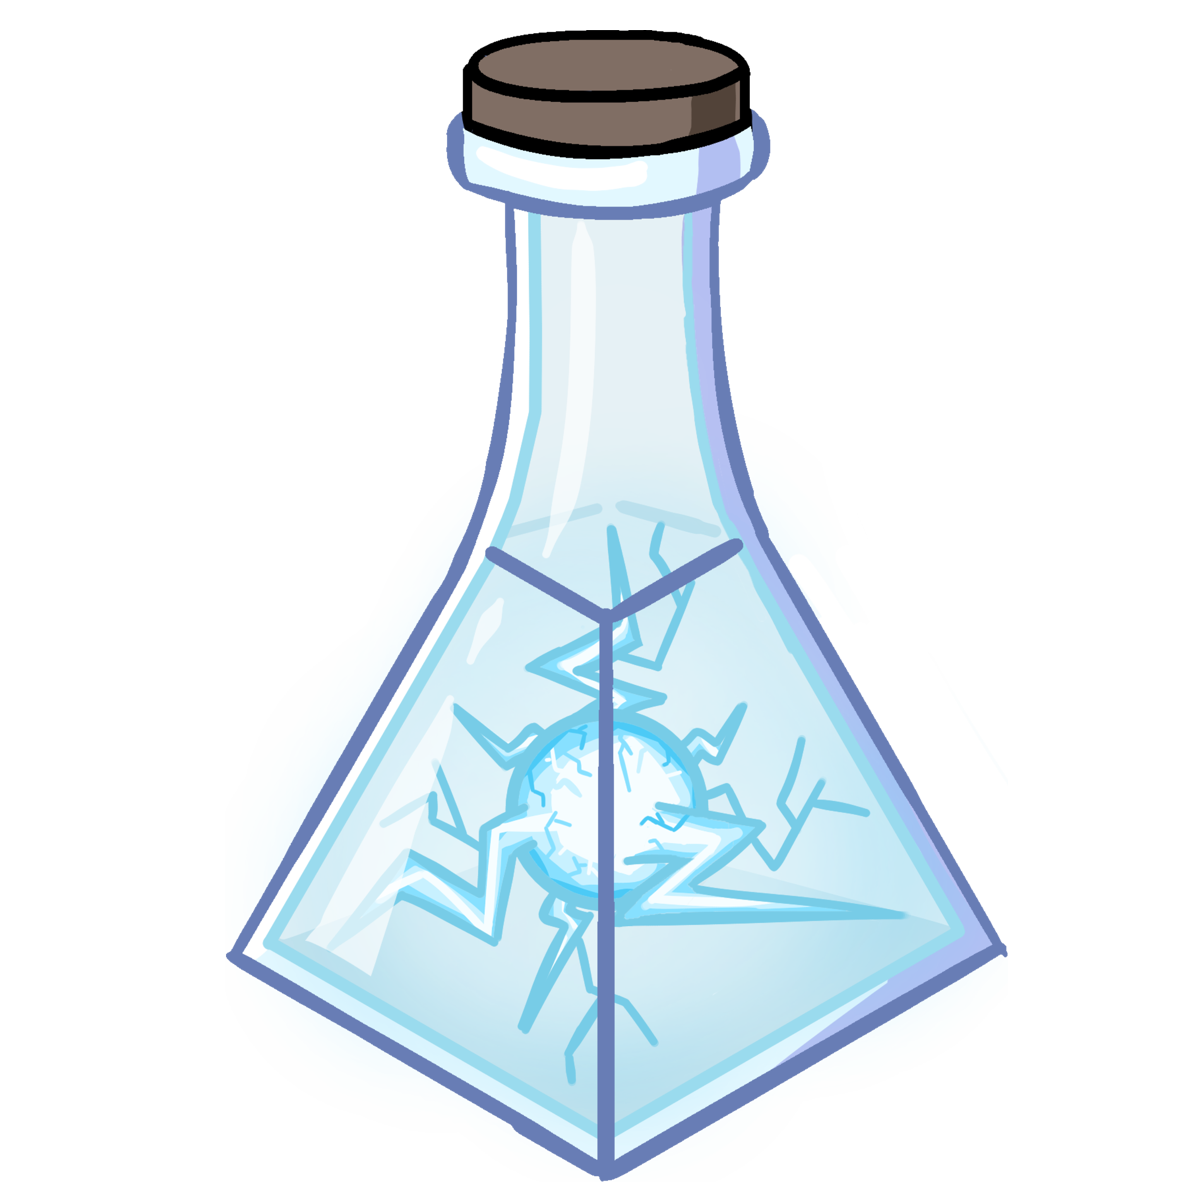
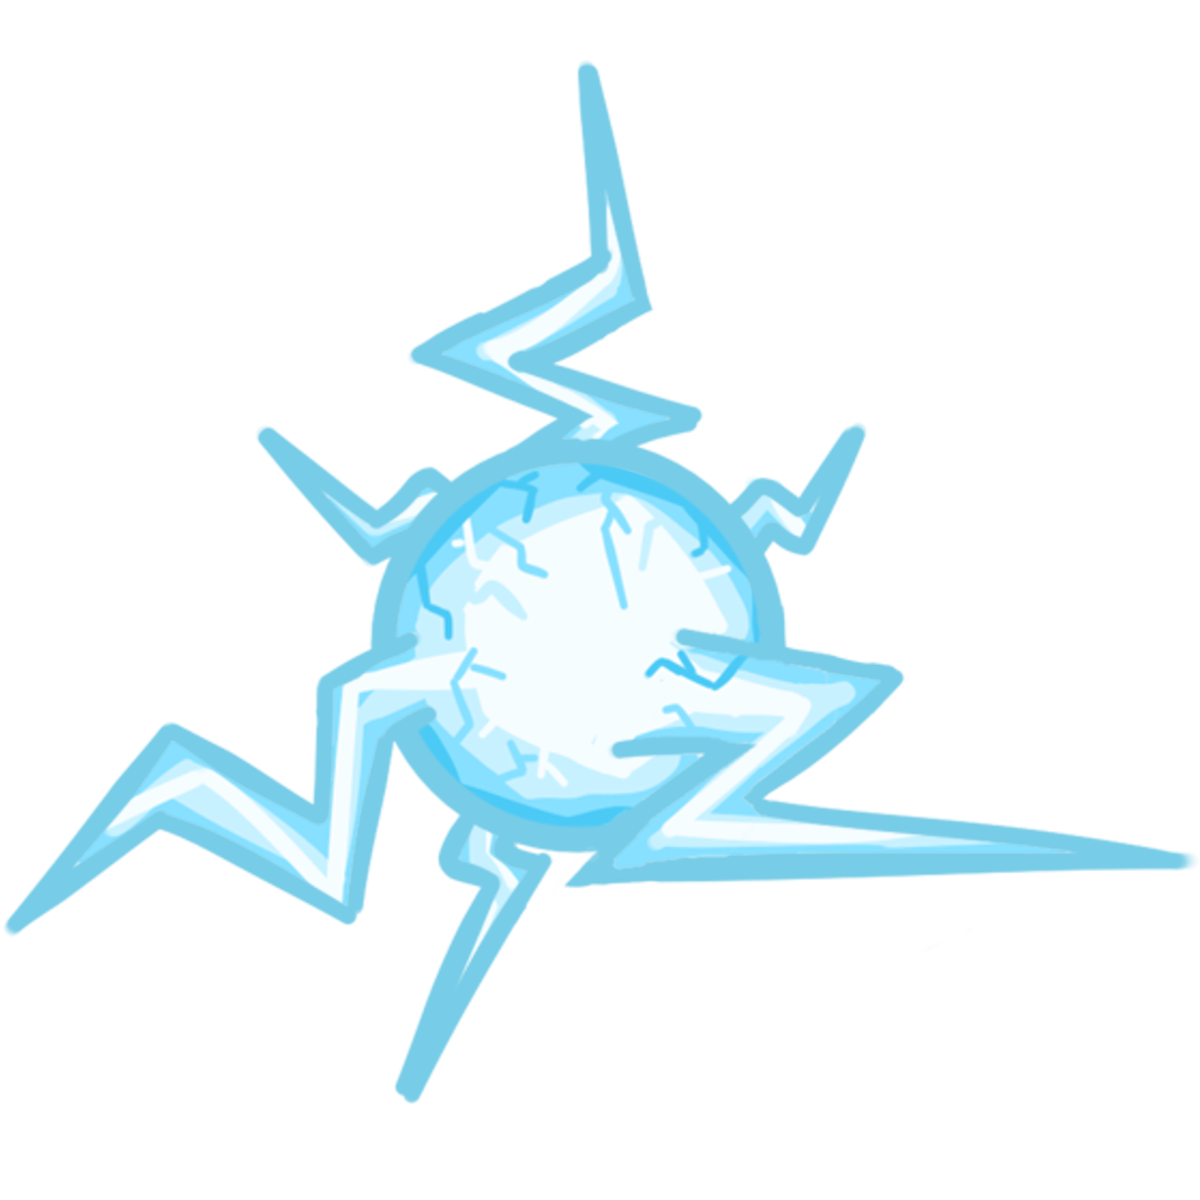
more WIP weeding out old code

diff --git a/Assets/Resources/UI/Compendium/Compendium.cs b/Assets/Resources/UI/Compendium/Compendium.cs
@@ -191,7 +191,7 @@ public class Compendium : MonoBehaviour
                 if (!u.PreReqComplete && !e.IsUnlocked)
                 {
                     rare = -1;
-                    concat = $"<size=42>{e.GetName(true).WithColor(DetailedDescription.LesserGray)}</size>" + shortLineBreak;
+                    concat = $"<size=42>{e.GetName(true).WithColor(ColorHelper.LesserGrayHex)}</size>" + shortLineBreak;
                 }
                 else
                     concat = $"<size=42>{e.GetName()}</size>" + shortLineBreak;
@@ -203,7 +203,7 @@ public class Compendium : MonoBehaviour
                     string powerStr = string.Empty;
                     foreach (PowerUp p in powers)
                     {
-                        string name = p.PickedUpCountAllRuns > 0 ? p.DetailedDescription.GetName(false, false) : "???".WithColor(DetailedDescription.Rares[p.Rarity - 1]);
+                        string name = p.PickedUpCountAllRuns > 0 ? p.DetailedDescription.GetName(false, false) : "???".WithColor(ColorHelper.RarityColorHex[p.Rarity - 1]);
                         powerStr += " " + name + "\n";
                     }
                     concat += $"<size=26>{powerStr}</size>";
@@ -211,7 +211,7 @@ public class Compendium : MonoBehaviour
                 }
                 concat += $"<size=26>{DetailedDescription.TextBoundedByRarityColor(rare, "Description\n", false)}</size>";
                 if (!u.PreReqComplete && !e.IsUnlocked)
-                    concat += e.GetDescription().WithColor(DetailedDescription.Gray) + shortLineBreak;
+                    concat += e.GetDescription().WithColor(ColorHelper.GrayHex) + shortLineBreak;
                 else
                     concat += e.GetDescription() + shortLineBreak;
                 if (!DisplayCEE.IsLocked())
@@ -224,7 +224,7 @@ public class Compendium : MonoBehaviour
                 {
                     concat = concat.Bastardize('?');
                 }
-                concat += "Associated Achievement: \n".WithSizeAndColor(30, DetailedDescription.LesserGray);
+                concat += "Associated Achievement: \n".WithSizeAndColor(30, ColorHelper.LesserGrayHex);
                 concat += u.GetName();
                 DisplayPortDescription.text = concat;
             }
@@ -234,13 +234,13 @@ public class Compendium : MonoBehaviour
                 rare = e.Rarity - 1;
                 string concat = $"<size=42>{DetailedDescription.TextBoundedByRarityColor(rare, DisplayCPEnemy.MyElem.MyEnemyPrefab.Name(), false)}</size>" + shortLineBreak;
                 concat += $"<size=26>{DetailedDescription.TextBoundedByRarityColor(rare, "Stats\n", false)}</size>";
-                concat += $" {DetailedDescription.TextBoundedByColor(DetailedDescription.Rares[5], "Base Health: ")}{e.BaseMaxLife}\n";
+                concat += $" {DetailedDescription.TextBoundedByColor(ColorHelper.RarityColorHex[5], "Base Health: ")}{e.BaseMaxLife}\n";
                 string coinRange = e.BaseMinCoin != e.BaseMaxCoin ? $"{e.BaseMinCoin}-{e.BaseMaxCoin}" : $"{e.BaseMinCoin}";
-                concat += $" {DetailedDescription.TextBoundedByColor(DetailedDescription.Yellow, "Coin Range: ")}{coinRange}\n";
+                concat += $" {DetailedDescription.TextBoundedByColor(ColorHelper.YellowHex, "Coin Range: ")}{coinRange}\n";
                 string gemRange = e.BaseMinGem != e.BaseMaxGem ? $"{e.BaseMinGem}-{e.BaseMaxGem}" : $"{e.BaseMaxGem}";
                 concat += $" {DetailedDescription.TextBoundedByColor(ColorHelper.RarityColors[1].ToHexString(), "Gem Bounty: ")}{gemRange}\n";
-                concat += $" {DetailedDescription.TextBoundedByColor(DetailedDescription.LesserGray, "Summon Cost: ")}{e.Cost:#.0}\n";
-                concat += $" {DetailedDescription.TextBoundedByColor(DetailedDescription.Rares[2], "Wave: ")}{e.WaveNumber:#.#}\n";
+                concat += $" {DetailedDescription.TextBoundedByColor(ColorHelper.LesserGrayHex, "Summon Cost: ")}{e.Cost:#.0}\n";
+                concat += $" {DetailedDescription.TextBoundedByColor(ColorHelper.RarityColorHex[2], "Wave: ")}{e.WaveNumber:#.#}\n";
 
                 if (!DisplayCPEnemy.IsLocked())
                 {
@@ -263,7 +263,7 @@ public class Compendium : MonoBehaviour
                 {
                     if (DisplayCPAchievement.MyUnlock.AssociatedUnlocks.Count > 0)
                     {
-                        concat += "Associated Unlocks: \n".WithSizeAndColor(30, DetailedDescription.LesserGray);
+                        concat += "Associated Unlocks: \n".WithSizeAndColor(30, ColorHelper.LesserGrayHex);
                         foreach (Equipment e in DisplayCPAchievement.MyUnlock.AssociatedUnlocks)
                         {
                             string name = e.IsUnlocked ? e.GetName() : e.GetName().Bastardize('?');
@@ -273,27 +273,27 @@ public class Compendium : MonoBehaviour
                     }
                     if (DisplayCPAchievement.MyUnlock.AssociatedBlackMarketUnlocks.Count > 0)
                     {
-                        concat += "Black Market Unlocks: \n".WithSizeAndColor(30, DetailedDescription.LesserGray);
+                        concat += "Black Market Unlocks: \n".WithSizeAndColor(30, ColorHelper.LesserGrayHex);
                         foreach (PowerUp p in DisplayCPAchievement.MyUnlock.AssociatedBlackMarketUnlocks)
                         {
-                            string name = DisplayCPAchievement.MyUnlock.Unlocked ? p.DetailedDescription.GetName() : "???".WithColor(DetailedDescription.Rares[rare]);
+                            string name = DisplayCPAchievement.MyUnlock.Unlocked ? p.DetailedDescription.GetName() : "???".WithColor(ColorHelper.RarityColorHex[rare]);
                             concat += " " + name + '\n';
                         }
                         concat += shortLineBreak;
                     }
-                    concat += "Achievement Category: \n".WithSizeAndColor(30, DetailedDescription.LesserGray);
+                    concat += "Achievement Category: \n".WithSizeAndColor(30, ColorHelper.LesserGrayHex);
                     if (DisplayCPAchievement.MyUnlock.AchievementZone == UnlockCondition.Meadows)
-                        concat += " Meadows\n".WithColor(DetailedDescription.Rares[1]);
+                        concat += " Meadows\n".WithColor(ColorHelper.RarityColorHex[1]);
                     else if (DisplayCPAchievement.MyUnlock.AchievementZone == UnlockCondition.City)
-                        concat += " City\n".WithColor(DetailedDescription.Rares[2]);
+                        concat += " City\n".WithColor(ColorHelper.RarityColorHex[2]);
                     else if (DisplayCPAchievement.MyUnlock.AchievementZone == UnlockCondition.Lab)
-                        concat += " Lab\n".WithColor(DetailedDescription.Rares[3]);
+                        concat += " Lab\n".WithColor(ColorHelper.RarityColorHex[3]);
                     if (DisplayCPAchievement.MyUnlock.AchievementCategory == UnlockCondition.Completionist)
-                        concat += " Completionist\n".WithColor(DetailedDescription.Rares[4]);
+                        concat += " Completionist\n".WithColor(ColorHelper.RarityColorHex[4]);
                     else if (DisplayCPAchievement.MyUnlock.AchievementCategory == UnlockCondition.Challenge)
-                        concat += " Challenge\n".WithColor(DetailedDescription.Rares[5]);
+                        concat += " Challenge\n".WithColor(ColorHelper.RarityColorHex[5]);
                     else if (DisplayCPAchievement.MyUnlock.AchievementCategory == UnlockCondition.Secret)
-                        concat += " Secret\n".WithColor(DetailedDescription.Rares[0]);
+                        concat += " Secret\n".WithColor(ColorHelper.RarityColorHex[0]);
                 }
                 else
                     rare = -1;

diff --git a/Assets/Resources/Director/ClauseEffects.cs b/Assets/Resources/Director/ClauseEffects.cs
@@ -58,7 +58,7 @@ public class EnemyCard : ClauseEffect
     }
     public override string Description()
     {
-        return $"{"New enemy:".WithSizeAndColor(30, DetailedDescription.LesserGray)} {RedText(EnemyToAdd.Name())}";
+        return $"{"New enemy:".WithSizeAndColor(30, ColorHelper.LesserGrayHex)} {RedText(EnemyToAdd.Name())}";
     }
 }
 public abstract class DirectorModifier : ClauseEffect
@@ -91,7 +91,7 @@ public class EnemyStrengthModifier : DirectorModifier
     }
     public override string Description()
     {
-        return $"{"Enemy Health:".WithSizeAndColor(30, DetailedDescription.LesserGray)} {RedText(PercentAsText)}";
+        return $"{"Enemy Health:".WithSizeAndColor(30, ColorHelper.LesserGrayHex)} {RedText(PercentAsText)}";
     }
 }
 public class DirectorCreditPowerModifier : DirectorModifier
@@ -102,7 +102,7 @@ public class DirectorCreditPowerModifier : DirectorModifier
     }
     public override string Description()
     {
-        return $"{"Wave Power:".WithSizeAndColor(30, DetailedDescription.LesserGray)} {RedText(PercentAsText)}";
+        return $"{"Wave Power:".WithSizeAndColor(30, ColorHelper.LesserGrayHex)} {RedText(PercentAsText)}";
     }
 }
 public class DirectorSwarmModifier : DirectorModifier
@@ -127,7 +127,7 @@ public class DirectorAmbushBonusModifier : DirectorModifier
     }
     public override string Description()
     {
-        return $"{"Initial Ambush:".WithSizeAndColor(30, DetailedDescription.LesserGray)} {RedText(NumberText)}";
+        return $"{"Initial Ambush:".WithSizeAndColor(30, ColorHelper.LesserGrayHex)} {RedText(NumberText)}";
     }
 }
 public class DirectorSwarmSpeedModifier : DirectorModifier
@@ -149,7 +149,7 @@ public class DirectorSkullWaveModifier : DirectorModifier
     }
     public override string Description()
     {
-        return $"{"Skull Waves:".WithSizeAndColor(30, DetailedDescription.LesserGray)} {RedText(NumberText)}";
+        return $"{"Skull Waves:".WithSizeAndColor(30, ColorHelper.LesserGrayHex)} {RedText(NumberText)}";
     }
 }
 public class DirectorSkullSwarmModifier : DirectorModifier
@@ -176,11 +176,11 @@ public class DirectorSkullSwarmModifier : DirectorModifier
     public override string Description()
     {
         if(IsPermanent)
-            return $"{$"Skull Swarm (".WithSizeAndColor(28, DetailedDescription.LesserGray)}" +
-            $"{Parent.EnemyToAdd.Name().WithSizeAndColor(28, DetailedDescription.Rares[5])}" +
-            $"{"):".WithSizeAndColor(28, DetailedDescription.LesserGray)} {RedText(NumberText)}";
+            return $"{$"Skull Swarm (".WithSizeAndColor(28, ColorHelper.LesserGrayHex)}" +
+            $"{Parent.EnemyToAdd.Name().WithSizeAndColor(28, ColorHelper.RarityColorHex[5])}" +
+            $"{"):".WithSizeAndColor(28, ColorHelper.LesserGrayHex)} {RedText(NumberText)}";
         else
-            return $"{$"Skull Swarm".WithSizeAndColor(30, DetailedDescription.LesserGray)} {RedText(NumberText)}";
+            return $"{$"Skull Swarm".WithSizeAndColor(30, ColorHelper.LesserGrayHex)} {RedText(NumberText)}";
 
     }
 }
@@ -248,10 +248,10 @@ public class ChestReward : Reward
     public override string Description()
     {
         if(ChestType == 2)
-            return $"{DetailedDescription.TextBoundedByColor(DetailedDescription.Rares[5], ChestQuantity > 1 ? $"{ChestQuantity} Gem Chests" : $"{ChestQuantity} Gem Chest")}";
+            return $"{DetailedDescription.TextBoundedByColor(ColorHelper.RarityColorHex[5], ChestQuantity > 1 ? $"{ChestQuantity} Gem Chests" : $"{ChestQuantity} Gem Chest")}";
         if (ChestType == 1)
-            return $"{DetailedDescription.TextBoundedByColor(DetailedDescription.Rares[2], ChestQuantity > 1 ? $"{ChestQuantity} Blue Chests" : $"{ChestQuantity} Blue Chest")}";
-        return $"{DetailedDescription.TextBoundedByColor(DetailedDescription.Rares[0], ChestQuantity > 1 ? $"{ChestQuantity} Chests" : $"{ChestQuantity} Chest")}";
+            return $"{DetailedDescription.TextBoundedByColor(ColorHelper.RarityColorHex[2], ChestQuantity > 1 ? $"{ChestQuantity} Blue Chests" : $"{ChestQuantity} Blue Chest")}";
+        return $"{DetailedDescription.TextBoundedByColor(ColorHelper.RarityColorHex[0], ChestQuantity > 1 ? $"{ChestQuantity} Chests" : $"{ChestQuantity} Chest")}";
     }
 }
 public class CoinReward : Reward
@@ -271,7 +271,7 @@ public class CoinReward : Reward
     }
     public override string Description()
     {
-        return $"{DetailedDescription.TextBoundedByColor(DetailedDescription.Yellow, coins > 1 ? $"{coins} coins" : $"{coins} coin")}";
+        return $"{DetailedDescription.TextBoundedByColor(ColorHelper.YellowHex, coins > 1 ? $"{coins} coins" : $"{coins} coin")}";
     }
 }
 public class HealReward : Reward
@@ -296,7 +296,7 @@ public class HealReward : Reward
     }
     public override string Description()
     {
-        return $"{DetailedDescription.TextBoundedByColor(DetailedDescription.Rares[5], heals > 1 ? $"{heals} hearts" : $"{heals} heart")}";
+        return $"{DetailedDescription.TextBoundedByColor(ColorHelper.RarityColorHex[5], heals > 1 ? $"{heals} hearts" : $"{heals} heart")}";
     }
 }
 public class KeyReward : Reward
@@ -319,7 +319,7 @@ public class KeyReward : Reward
     }
     public override string Description()
     {
-        return $"{DetailedDescription.TextBoundedByColor(DetailedDescription.LesserGray, keys > 1 ? $"{keys} keys" : $"{keys} key")}";
+        return $"{DetailedDescription.TextBoundedByColor(ColorHelper.LesserGrayHex, keys > 1 ? $"{keys} keys" : $"{keys} key")}";
     }
 }
 public class TokenReward : Reward
@@ -364,6 +364,6 @@ public class GemReward : Reward
     }
     public override string Description()
     {
-        return $"{DetailedDescription.TextBoundedByColor(DetailedDescription.Rares[1], gems > 1 ? $"{gems} Gems" : $"{gems} Gem")}";
+        return $"{DetailedDescription.TextBoundedByColor(ColorHelper.RarityColorHex[1], gems > 1 ? $"{gems} Gems" : $"{gems} Gem")}";
     }
 }

diff --git a/Assets/Resources/PowerUps/Scripts/PowerCollection2.cs b/Assets/Resources/PowerUps/Scripts/PowerCollection2.cs
@@ -192,7 +192,7 @@ public class ResearchNotes : PowerUp
     }
     //public override void InitializeDescription(ref DetailedDescription description)
     //{
-    //    description.WithDescription($"Y:[After killing 3 Skull enemies,] become a <color={DetailedDescription.Rares[0]}>Choice</color> with 5 options G:(consumed on use)");
+    //    description.WithDescription($"Y:[After killing 3 Skull enemies,] become a <color={ColorHelper.RarityColorHex[0]}>Choice</color> with 5 options G:(consumed on use)");
     //    description.WithShortDescription("After killing 3 Skull enemies, become a Choice with 5 options");
     //}
     public override void HeldEffect(Player p)
@@ -346,7 +346,7 @@ public class PerpetualBubbleMachine : PowerUp
     }
     //public override void InitializeDescription(ref DetailedDescription description)
     //{
-    //    description.WithDescription($"Adds Y:1 G:(+1 per stack) <color={DetailedDescription.Rares[0]}>Choice</color> to Y:[wave end] \nR:[Rainbow Shard replication cost increases with stack size]");
+    //    description.WithDescription($"Adds Y:1 G:(+1 per stack) <color={ColorHelper.RarityColorHex[0]}>Choice</color> to Y:[wave end] \nR:[Rainbow Shard replication cost increases with stack size]");
     //    description.WithShortDescription("The key to infinite bubble forever?");
     //}
     public override void HeldEffect(Player p)
@@ -572,7 +572,7 @@ public class QuantumCake : PowerUp
     //public override void InitializeDescription(ref DetailedDescription description)
     //{
     //    description.WithName("Quantum Cake");
-    //    description.WithDescription($"Drops a Y:[Heart] and becomes a {"Schrodinger's Cake".WithColor(DetailedDescription.Rares[5])} when Y:dissolved in a Y:Crucible");
+    //    description.WithDescription($"Drops a Y:[Heart] and becomes a {"Schrodinger's Cake".WithColor(ColorHelper.RarityColorHex[5])} when Y:dissolved in a Y:Crucible");
     //    description.WithShortDescription("And you can eat it too!");
     //}
     public override void HeldEffect(Player p)

diff --git a/Assets/Resources/Director/ModifierCard.cs b/Assets/Resources/Director/ModifierCard.cs
@@ -49,7 +49,7 @@ public class ModifierCard : MonoBehaviour
         concat = string.Empty;
         if (cardData.RewardClause.PreRewards.Count > 0)
         {
-            concat = "Immediately: \n".WithSizeAndColor(28, DetailedDescription.LesserGray);
+            concat = "Immediately: \n".WithSizeAndColor(28, ColorHelper.LesserGrayHex);
             foreach (Reward r in cardData.RewardClause.PreRewards)
                 concat += r.Description() + '\n';
             if (cardData.RewardClause.PostRewards.Count > 0)
@@ -57,7 +57,7 @@ public class ModifierCard : MonoBehaviour
         }
         if(cardData.RewardClause.PostRewards.Count > 0)
         {
-            concat += "On Completion: \n".WithSizeAndColor(28, DetailedDescription.LesserGray);
+            concat += "On Completion: \n".WithSizeAndColor(28, ColorHelper.LesserGrayHex);
             foreach (Reward r in cardData.RewardClause.PostRewards)
                 concat += r.Description() + '\n';
         }

diff --git a/Assets/Resources/Director/WaveMeter.cs b/Assets/Resources/Director/WaveMeter.cs
@@ -119,9 +119,9 @@ public class WaveMeter : MonoBehaviour
         else if(Utils.IsMouseHoveringOverThis(true, NextWaveBG.rectTransform, 0, CardManager.Instance.MyCanvas))
         {
             if (Player.AllPlayers.Count > 1)
-                PopUpTextUI.Enable("All players must be near a pylon to start!".WithColor(DetailedDescription.Rares[5]), " ");
+                PopUpTextUI.Enable("All players must be near a pylon to start!".WithColor(ColorHelper.RarityColorHex[5]), " ");
             else
-                PopUpTextUI.Enable("Must be near a pylon to start!".WithColor(DetailedDescription.Rares[5]), "");
+                PopUpTextUI.Enable("Must be near a pylon to start!".WithColor(ColorHelper.RarityColorHex[5]), "");
         }
         if (!AwaitingNextCard || Main.PlayerNearPylon)
             Pylon.color = Color.Lerp(Pylon.color, Color.white, Utils.DeltaTimeLerpFactor(0.2f));

diff --git a/Assets/Resources/Player/Bubblemancer/BlueCape.cs b/Assets/Resources/Player/Bubblemancer/BlueCape.cs
@@ -5,11 +5,11 @@ public class BlueCape : BubblemancerCape
     protected override UnlockCondition UnlockCondition => UnlockCondition.Get<WaveUnlock10>();
     public override void InitializeDescription(ref DetailedDescription description)
     {
-        description.WithName("Bluebblemancy Cape").WithDescription($"Start with a random {"3-star power".WithColor(DetailedDescription.Rares[2])}");
+        description.WithName("Bluebblemancy Cape").WithDescription($"Start with a random {"3-star power".WithColor(ColorHelper.RarityColorHex[2])}");
     }
     public override void InitializeAbilities(ref List<Ability> abilities)
     {
-        abilities.Add(new Ability(Ability.ID.Passive, $"Start with a random {"3-star power".WithColor(DetailedDescription.Rares[2])}"));
+        abilities.Add(new Ability(Ability.ID.Passive, $"Start with a random {"3-star power".WithColor(ColorHelper.RarityColorHex[2])}"));
     }
     public override void OnStartWith()
     {

diff --git a/Assets/Resources/Player/ThoughtBubble/UtilityBelt.cs b/Assets/Resources/Player/ThoughtBubble/UtilityBelt.cs
@@ -20,11 +20,11 @@ public class UtilityBelt : Accessory
     protected override UnlockCondition UnlockCondition => UnlockCondition.Get<ThoughtBubbleArsenal>();
     public override void InitializeDescription(ref DetailedDescription description)
     {
-        description.WithName("Utility Belt").WithDescription($"Start with a {"Magnet".WithColor(DetailedDescription.Rares[0])}, a Y:Key, and Y:[100 coins]");
+        description.WithName("Utility Belt").WithDescription($"Start with a {"Magnet".WithColor(ColorHelper.RarityColorHex[0])}, a Y:Key, and Y:[100 coins]");
     }
     public override void InitializeAbilities(ref List<Ability> abilities)
     {
-        abilities.Add(new Ability(Ability.ID.Passive, $"Start with a {"Magnet".WithColor(DetailedDescription.Rares[0])}, a Y:Key, and Y:[100 coins]"));
+        abilities.Add(new Ability(Ability.ID.Passive, $"Start with a {"Magnet".WithColor(ColorHelper.RarityColorHex[0])}, a Y:Key, and Y:[100 coins]"));
     }
     public override void OnStartWith()
     {

diff --git a/Assets/Resources/UI/PricedButton.cs b/Assets/Resources/UI/PricedButton.cs
@@ -40,9 +40,9 @@ public class PricedButton : MonoBehaviour
             if (!StartButton.interactable)
             {
                 if(Player.AllPlayers.Count > 1)
-                    PopUpTextUI.Enable("All players must be near a pylon to begin!".WithColor(DetailedDescription.Rares[5]), " ");
+                    PopUpTextUI.Enable("All players must be near a pylon to begin!".WithColor(ColorHelper.RarityColorHex[5]), " ");
                 else
-                    PopUpTextUI.Enable("Must be near a pylon to begin!".WithColor(DetailedDescription.Rares[5]), "");
+                    PopUpTextUI.Enable("Must be near a pylon to begin!".WithColor(ColorHelper.RarityColorHex[5]), "");
             }
             Player.Instance.Control.BlockAttack = true;
         }

diff --git a/Assets/Unlocks/UnlockCondition.cs b/Assets/Unlocks/UnlockCondition.cs
@@ -186,13 +186,13 @@ public abstract class UnlockCondition
     public string GetName()
     {
         if(!PreReqComplete && !Completed)
-            return "???".WithColor(DetailedDescription.LesserGray);
+            return "???".WithColor(ColorHelper.LesserGrayHex);
         return DetailedDescription.TextBoundedByRarityColor(Rarity - 1, Description.GetName(true), false);
     }
     public string GetDescription(bool brief = false)
     {
         if (!PreReqComplete && !Completed)
-            return "Play more to uncover".WithColor(DetailedDescription.Gray);
+            return "Play more to uncover".WithColor(ColorHelper.GrayHex);
         return brief ? Description.BriefDescription() : Description.FullDescription();
     }
     public virtual int Rarity => AssociatedUnlocks.Count > 0 ? FrontPageUnlock().GetRarity() : 1;

diff --git a/Assets/Resources/Player/ThoughtBubble/Crown.cs b/Assets/Resources/Player/ThoughtBubble/Crown.cs
@@ -28,7 +28,7 @@ public class Crown : Bulb
     }
     public override void InitializeAbilities(ref List<Ability> abilities)
     {
-        abilities.Add(new Ability(Ability.ID.Passive, $"{"Choice".WithColor(DetailedDescription.Rares[0])} powers have Y:[5 options]"));
+        abilities.Add(new Ability(Ability.ID.Passive, $"{"Choice".WithColor(ColorHelper.RarityColorHex[0])} powers have Y:[5 options]"));
     }
     public override void EquipUpdate()
     {

diff --git a/Assets/Unlocks/CharacterUnlocks.cs b/Assets/Unlocks/CharacterUnlocks.cs
@@ -33,7 +33,7 @@ public class FizzyUnlock : UnlockCondition
     public override void InitializeDescription(ref DetailedDescription description)
     {
         description.WithName("Kickflip");
-        description.WithDescription($"Reach the end of a {"Gatligator".WithColor(DetailedDescription.Rares[3])} Y:[Skull Wave]");
+        description.WithDescription($"Reach the end of a {"Gatligator".WithColor(ColorHelper.RarityColorHex[3])} Y:[Skull Wave]");
     }
     protected override bool TryUnlockCondition => false;
 }

diff --git a/Assets/Unlocks/UnlockCollection1.cs b/Assets/Unlocks/UnlockCollection1.cs
@@ -280,7 +280,7 @@ public class ThoughtBubbleIndistinguishable : UnlockCondition
     {
         description.WithName("Thought Bubble: Indistinguishable");
         description.WithDescription($"As Y:[Thought Bubble,] reach the end of a" +
-            $" {"Infector".WithColor(DetailedDescription.Rares[5])} Y:[Skull Wave]");
+            $" {"Infector".WithColor(ColorHelper.RarityColorHex[5])} Y:[Skull Wave]");
     }
     public override void SetAchievementCategories(ref int zone, ref int category)
     {